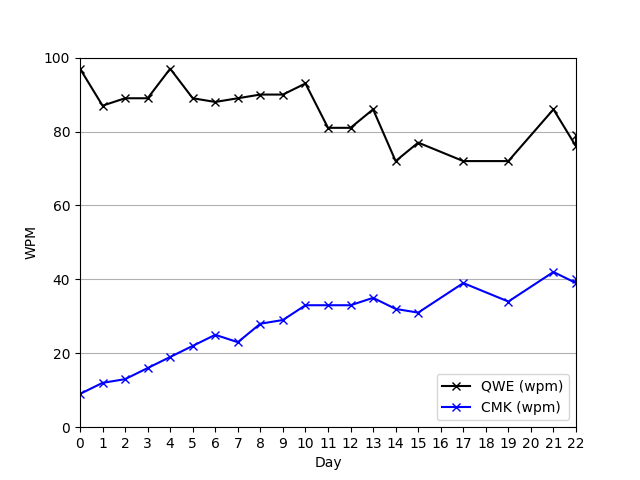
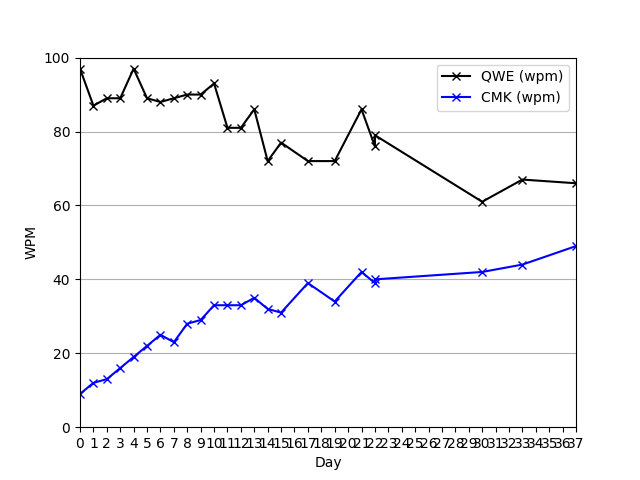
colemak progress

diff --git a/colemak_progress/main.py b/colemak_progress/main.py
@@ -31,6 +31,9 @@ entries = (
     Entry(date=datetime.date(2025,9,3), qwerty_wpm=86, colemak_wpm=42),
     Entry(date=datetime.date(2025,9,4), qwerty_wpm=76, colemak_wpm=39),
     Entry(date=datetime.date(2025,9,4), qwerty_wpm=79, colemak_wpm=40),
+    Entry(date=datetime.date(2025,9,12), qwerty_wpm=61, colemak_wpm=42),
+    Entry(date=datetime.date(2025,9,15), qwerty_wpm=67, colemak_wpm=44),
+    Entry(date=datetime.date(2025,9,19), qwerty_wpm=66, colemak_wpm=49),
 )
 
 def main():
